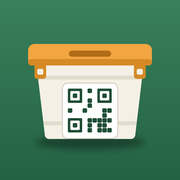
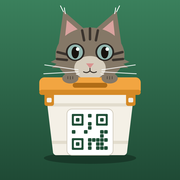
Add files via upload

diff --git a/index.html b/index.html
@@ -26,7 +26,7 @@ h1{font-size:1.4rem;margin:.2rem 0 .8rem}
 .row{display:flex;gap:8px;align-items:center}
 .sp{justify-content:space-between}
 input,textarea{width:100%;padding:11px 12px;border:1px solid var(--bd);border-radius:10px;background:var(--card);color:var(--tx);font:inherit}
-button{font:inherit;padding:10px 14px;border-radius:10px;border:1px solid var(--bd);background:var(--card);color:var(--tx);cursor:pointer}
+button{white-space:nowrap;font:inherit;padding:10px 14px;border-radius:10px;border:1px solid var(--bd);background:var(--card);color:var(--tx);cursor:pointer}
 button.p{background:var(--ac);color:var(--acx);border-color:var(--ac);font-weight:600}
 button.d{color:var(--dg)}
 .card{background:var(--card);border:1px solid var(--bd);border-radius:14px;padding:12px;margin:10px 0;cursor:pointer}
@@ -40,6 +40,14 @@ button.d{color:var(--dg)}
 .modal{position:fixed;inset:0;background:rgba(0,0,0,.5);display:flex;align-items:flex-end;justify-content:center;z-index:20}
 .sheet{background:var(--bg);width:100%;max-width:640px;border-radius:18px 18px 0 0;padding:16px;max-height:90vh;overflow:auto;display:grid;gap:10px}
 .grid{display:grid;grid-template-columns:repeat(2,1fr);gap:10px;margin:8px 0}.tile{background:var(--card);border:1px solid var(--bd);border-radius:12px;overflow:hidden;cursor:pointer}.tile img,.tile .ph{width:100%;aspect-ratio:1;object-fit:cover;display:block;background:var(--bd)}.tile .ph{display:flex;align-items:center;justify-content:center;color:var(--mut)}.tile .c{padding:8px 10px}.tile b{display:block;overflow-wrap:anywhere}@media(min-width:560px){.grid{grid-template-columns:repeat(3,1fr)}}.big{width:100%;max-height:50vh;object-fit:contain;border-radius:12px;background:var(--bd)}
+.cat{width:64px;height:54px;flex:none;overflow:visible}
+.cat .lid{transform-box:fill-box;transform-origin:50% 0;transform:scaleY(0);animation:blink 5s infinite}
+@keyframes blink{0%,92%,100%{transform:scaleY(0)}95%{transform:scaleY(1)}}
+.cat .earL{transform-box:fill-box;transform-origin:80% 100%;animation:twitch 7s infinite}
+@keyframes twitch{0%,86%,100%{transform:rotate(0)}89%{transform:rotate(-10deg)}93%{transform:rotate(3deg)}}
+.cat .head{transform-box:fill-box;transform-origin:50% 100%;animation:tilt 9s ease-in-out infinite}
+@keyframes tilt{0%,30%,100%{transform:rotate(0)}45%,60%{transform:rotate(5deg)}}
+@media(prefers-reduced-motion:reduce){.cat *{animation:none!important}}
 .labels{display:grid;grid-template-columns:repeat(auto-fill,minmax(210px,1fr));gap:12px}
 .label{background:#fff;color:#000;border:1px dashed #999;padding:10px;text-align:center;border-radius:6px;break-inside:avoid}
 .label svg{width:100%;max-width:170px;height:auto}
@@ -57,6 +65,7 @@ button.d{color:var(--dg)}
 var app=document.getElementById('app'),modal=document.getElementById('modal');
 var selMode=false,sel={},bulkBusy=false,gridView=true,authed=false,sb=null,downloads=null,boxes=[],ready=false,q='',err='';
 var base=location.origin+location.pathname;
+var CAT='<svg class="cat" viewBox="-6 -4 212 176" aria-hidden="true"><g class="head"><g class="earL"><polygon points="36,84 46,14 92,54" fill="#857867"/><polygon points="49,70 53,33 80,56" fill="#d9a39f"/><path d="M46 16 q-4 -8 -6 -12 M50 20 q-2 -8 -2 -12" stroke="var(--mut)" stroke-width="1.6" fill="none" stroke-linecap="round"/></g><g class="earR"><polygon points="164,84 154,14 108,54" fill="#857867"/><polygon points="151,70 147,33 120,56" fill="#d9a39f"/><path d="M154 16 q4 -8 6 -12 M150 20 q2 -8 2 -12" stroke="var(--mut)" stroke-width="1.6" fill="none" stroke-linecap="round"/></g><ellipse cx="100" cy="104" rx="70" ry="56" fill="#857867"/><path d="M32 112 l-12 6 l12 4 l-10 8 l16 0 Z M168 112 l12 6 l-12 4 l10 8 l-16 0 Z" fill="#857867"/><ellipse cx="100" cy="130" rx="32" ry="24" fill="#d6cdbd"/><g stroke="#3b342e" stroke-width="5" stroke-linecap="round" fill="none"><path d="M100 50 v22"/><path d="M84 54 l4 20"/><path d="M116 54 l-4 20"/><path d="M34 98 l20 5"/><path d="M33 112 l20 2"/><path d="M166 98 l-20 5"/><path d="M167 112 l-20 2"/></g><g><ellipse cx="70" cy="98" rx="19" ry="18" fill="#2b2622"/><circle cx="70" cy="98" r="15.5" fill="#93b7b0"/><ellipse cx="70" cy="99" rx="7.5" ry="12" fill="#17130f"/><circle cx="75" cy="92" r="3.6" fill="#fff"/><ellipse class="lid" cx="70" cy="98" rx="20" ry="19" fill="#857867"/></g><g><ellipse cx="130" cy="98" rx="19" ry="18" fill="#2b2622"/><circle cx="130" cy="98" r="15.5" fill="#93b7b0"/><ellipse cx="130" cy="99" rx="7.5" ry="12" fill="#17130f"/><circle cx="135" cy="92" r="3.6" fill="#fff"/><ellipse class="lid" cx="130" cy="98" rx="20" ry="19" fill="#857867"/></g><path d="M92 121 h16 l-8 10 Z" fill="#d9928f"/><path d="M100 131 v5 M100 136 q-6 6 -13 2 M100 136 q6 6 13 2" stroke="#3b342e" stroke-width="2" fill="none" stroke-linecap="round"/><g stroke="var(--mut)" stroke-width="1.6" stroke-linecap="round" opacity=".9"><path d="M76 134 L8 124"/><path d="M76 138 L6 142"/><path d="M78 142 L14 158"/><path d="M124 134 L192 124"/><path d="M124 138 L194 142"/><path d="M122 142 L186 158"/></g></g></svg>';
 // Supabase project URL and public (anon) key. Safe to publish; data is protected by sign-in rules.
 var SUPABASE_URL='https://slvwbngmnzqaiyrofqpj.supabase.co',SUPABASE_KEY='eyJhbGciOiJIUzI1NiIsInR5cCI6IkpXVCJ9.eyJpc3MiOiJzdXBhYmFzZSIsInJlZiI6InNsdndibmdtbnpxYWl5cm9mcXBqIiwicm9sZSI6ImFub24iLCJpYXQiOjE3OTQ0NTk4ODQsImV4cCI6MjExMDAzNTg4NH0._gVrSN56uxHpLtrnYZUyQpa5oQIEnMvF92G32xO57kQ';
 // ===========================================================
@@ -98,7 +107,7 @@ function render(){
 }
 function homeView(){
  var ql=q.trim().toLowerCase(),list=boxes.slice().sort(function(a,b){return(a.name||'').localeCompare(b.name||'',undefined,{numeric:true})});
- var out='<div class="row sp"><h1>Field Family ExtraSpace Storage Burbank Unit 895 Catalogue</h1><span class="row">'+(boxes.length?'<button data-a="sel">'+(selMode?'Done':'Select')+'</button>':'')+'<button class="p" data-a="newbox">+ Box</button></span></div>'+
+ var out='<div class="row sp" style="flex-wrap:wrap"><div class="row" style="min-width:0;align-items:center;flex:1 1 100%">'+CAT+'<h1 style="font-size:1.15rem;margin:.2rem 0">Field Family ExtraSpace Storage Burbank Unit 895 Catalogue</h1></div><span class="row" style="margin-left:auto">'+(boxes.length?'<button data-a="sel">'+(selMode?'Done':'Select')+'</button>':'')+'<button class="p" data-a="newbox">+ Box</button></span></div>'+
  '<input id="q" type="search" placeholder="Search all boxes for an item…" value="'+esc(q)+'">';
  if(ql){
   var hits=[];list.forEach(function(b){(b.items||[]).forEach(function(it){if((it.name+' '+(it.note||'')).toLowerCase().indexOf(ql)>-1||(b.name||'').toLowerCase().indexOf(ql)>-1&&!hits.length&&false)hits.push({b:b,it:it})})});
@@ -245,7 +254,7 @@ function exportCsv(){
 window.addEventListener('hashchange',function(){selMode=false;sel={};closeM();render()});
 downloads={save:function(o){var a=document.createElement('a');a.href=URL.createObjectURL(new Blob([o.data],{type:'text/csv;charset=utf-8'}));a.download=o.filename;document.body.appendChild(a);a.click();a.remove();return Promise.resolve()}};
 function loginView(msg){
- app.innerHTML='<h1>Field Family ExtraSpace Storage Burbank Unit 895 Catalogue</h1><p class="mut">Sign in to view and edit the inventory.</p><input id="em" type="email" placeholder="Email" autocomplete="username"><div style="height:8px"></div><input id="pw" type="password" placeholder="Password" autocomplete="current-password"><p><button class="p" id="sg" style="width:100%">Sign in</button></p><p><button id="ml" style="width:100%">Email me a sign-in link instead</button></p>'+(msg?'<div class="msg">'+esc(msg)+'</div>':'');
+ app.innerHTML='<div class="row" style="min-width:0;align-items:center">'+CAT+'<h1 style="font-size:1.15rem;margin:.2rem 0">Field Family ExtraSpace Storage Burbank Unit 895 Catalogue</h1></div><p class="mut">Sign in to view and edit the inventory.</p><input id="em" type="email" placeholder="Email" autocomplete="username"><div style="height:8px"></div><input id="pw" type="password" placeholder="Password" autocomplete="current-password"><p><button class="p" id="sg" style="width:100%">Sign in</button></p><p><button id="ml" style="width:100%">Email me a sign-in link instead</button></p>'+(msg?'<div class="msg">'+esc(msg)+'</div>':'');
  function em(){return document.getElementById('em').value.trim()}
  document.getElementById('sg').onclick=function(){var e=em(),pw=document.getElementById('pw').value;if(!e||!pw)return;
   sb.auth.signInWithPassword({email:e,password:pw}).then(function(r){if(r.error)loginView('Sign-in failed: '+r.error.message)})};
